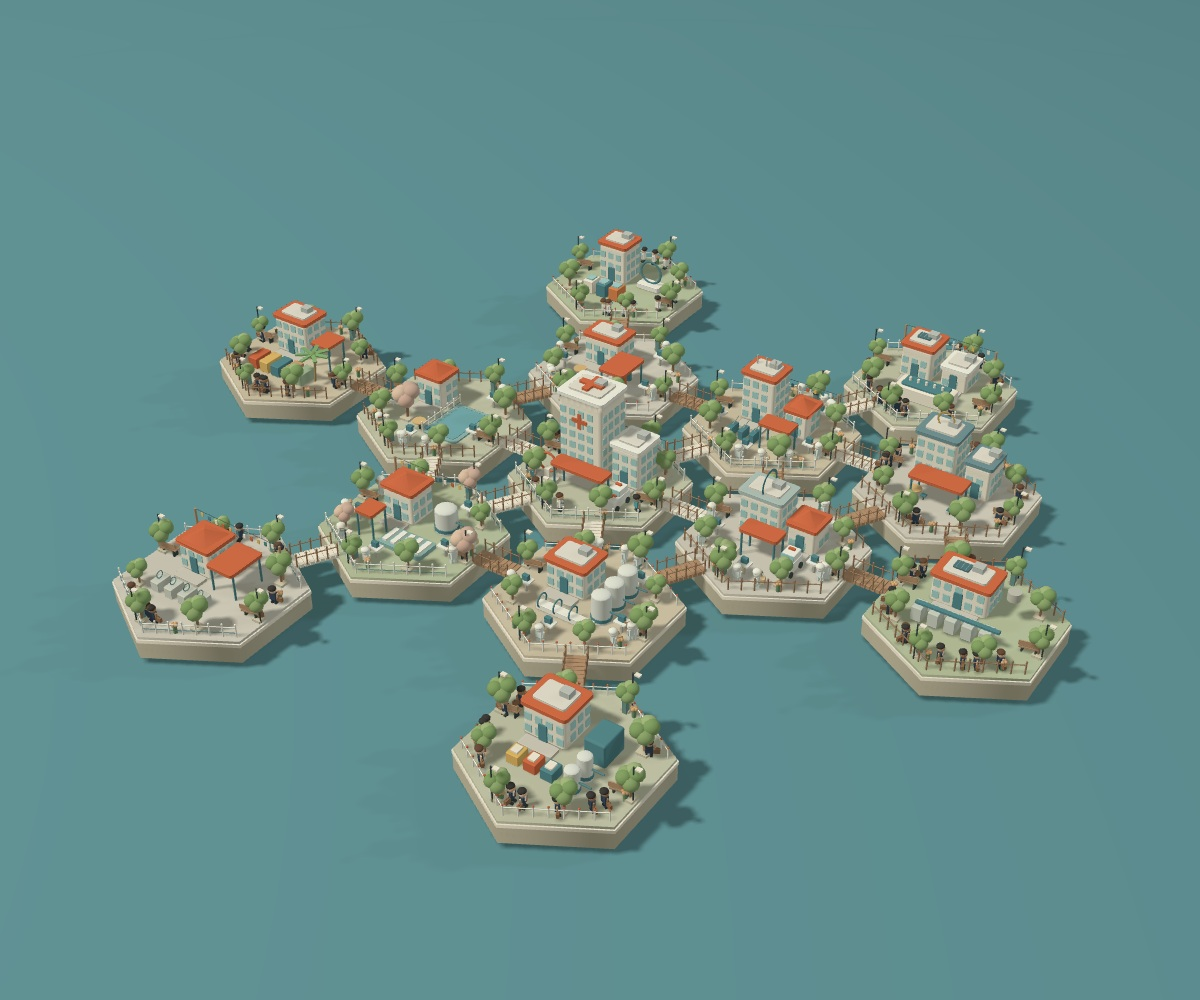
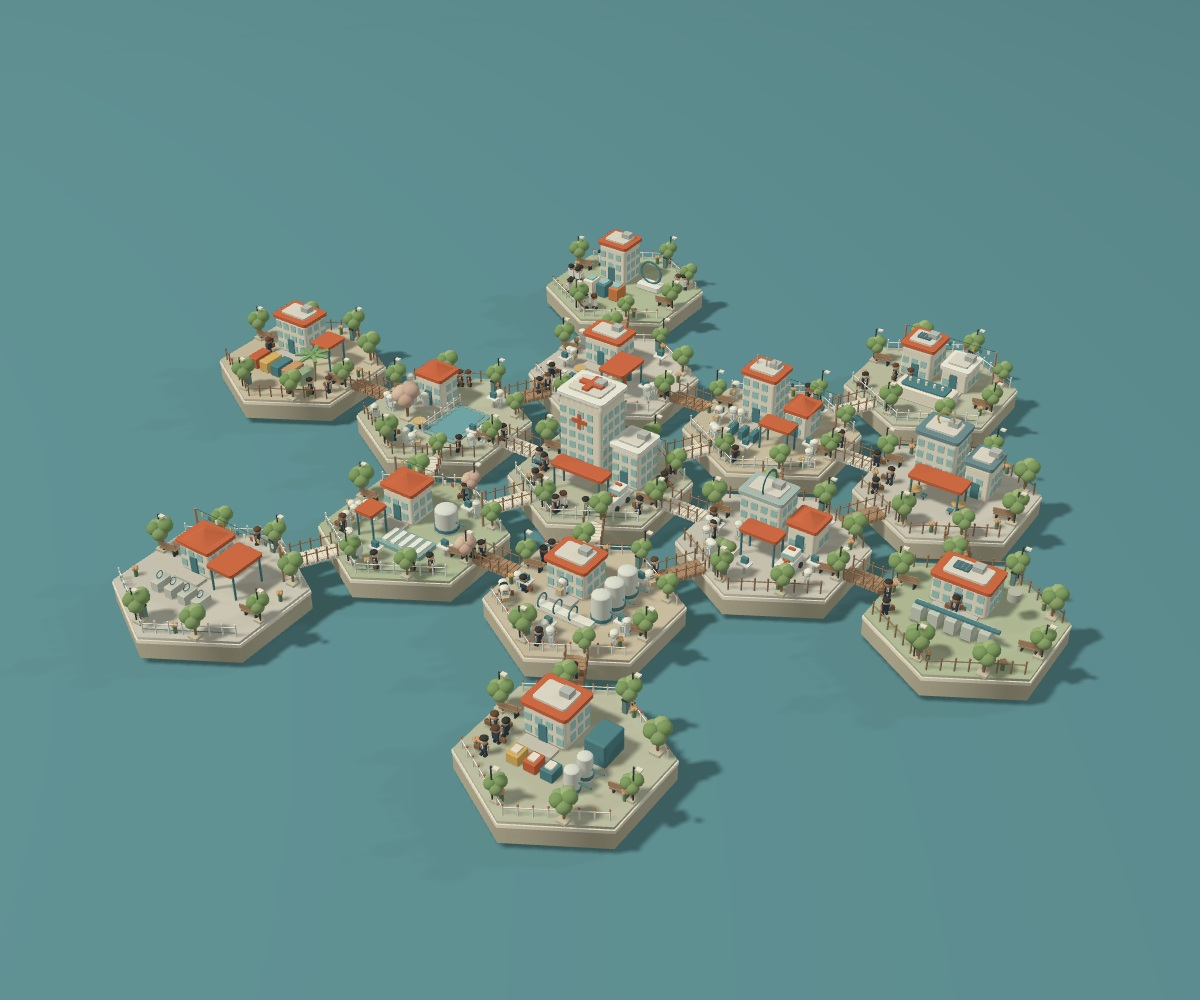
Route salespeople between buildings and local staff through their own building doors

diff --git a/island-model.js b/island-model.js
@@ -1,6 +1,6 @@
 // Procedural medical town. All architecture and characters are generated here.
 export function buildMedicalTown(T,RoundedBoxGeometry,definitions){
- const root=new T.Group(),parts=[],actors=[],lamps=[],tileCenters=[],windowColors=[];
+ const root=new T.Group(),parts=[],actors=[],lamps=[],tileCenters=[],doors=[],windowColors=[];
  const G={box:new T.BoxGeometry(1,1,1),round:new RoundedBoxGeometry(1,1,1,2,.09),cyl:new T.CylinderGeometry(.5,.5,1,12),cone:new T.ConeGeometry(.5,1,10),ball:new T.SphereGeometry(.5,12,8),leaf:new T.IcosahedronGeometry(.5,1),hex:new T.CylinderGeometry(.5,.5,1,6),roof:new T.ConeGeometry(.5,1,4),ring:new T.TorusGeometry(.5,.055,8,24)};
  const C={cream:0xf7f0df,white:0xf6f6ec,coral:0xd96e43,orange:0xe3894e,teal:0x538d95,glass:0xa9d5d2,brown:0xa58263,wood:0xbc9774,ink:0x3c4a48,green:0x89a870,lime:0xaac186,sand:0xe1cd9f,gray:0xc6c6b8};
  let owner=-1,seed=731;function rand(){seed=(seed*1664525+1013904223)>>>0;return seed/4294967296}
@@ -24,7 +24,7 @@ export function buildMedicalTown(T,RoundedBoxGeometry,definitions){
  function bin(x,z){box(x,TOP+.17,z,.11,.33,.12,0x739a91);box(x,TOP+.34,z,.13,.035,.14,C.ink)}
  function bunting(a,b){beam(a,b,.009,C.ink);const n=12;for(let j=1;j<n;j++){const f=j/n,x=a[0]+(b[0]-a[0])*f,y=a[1]+(b[1]-a[1])*f-Math.sin(f*Math.PI)*.10,z=a[2]+(b[2]-a[2])*f;box(x,y-.055,z,.07,.11,.018,[C.coral,0xe8c46f,C.teal,C.cream][j%4])}}
  function windows(x,z,w,h,d,y=TOP){for(let floor=0;floor<Math.floor(h/.3);floor++)for(let col=0;col<Math.max(1,Math.floor(w/.25));col++){const xx=x-w/2+.14+col*.25,yy=y+.22+floor*.3;box(xx,yy,z+d/2+.012,.16,.18,.025,C.glass);windowColors.push(parts.length-1)}for(let floor=0;floor<Math.floor(h/.3);floor++)for(let col=0;col<Math.max(1,Math.floor(d/.25));col++){box(x+w/2+.012,y+.22+floor*.3,z-d/2+.14+col*.25,.025,.18,.16,C.glass);windowColors.push(parts.length-1)}}
- function building(x,z,w,h,d,roof=C.coral,modern=false){box(x,TOP+h/2,z,w,h,d,C.cream);windows(x,z,w,h-.08,d);box(x,TOP+h+.035,z,w+.10,.10,d+.1,roof);if(modern){box(x,TOP+h+.10,z,w*.76,.08,d*.68,0xe8e5d9);box(x+.18,TOP+h+.2,z-.10,.25,.15,.22,0xc5cac5)}else{p('roof',x,TOP+h+.16,z,w*1.5,.27,d*1.5,roof,Math.PI/4)}box(x,TOP+.24,z+d/2+.03,.20,.48,.04,C.teal);box(x,TOP+.04,z+d/2+.19,w*.8,.08,.32,0xd8d5c8)}
+ function building(x,z,w,h,d,roof=C.coral,modern=false){if(owner>=0&&!doors[owner])doors[owner]={x,z:z+d/2+.035,tile:owner};box(x,TOP+h/2,z,w,h,d,C.cream);windows(x,z,w,h-.08,d);box(x,TOP+h+.035,z,w+.10,.10,d+.1,roof);if(modern){box(x,TOP+h+.10,z,w*.76,.08,d*.68,0xe8e5d9);box(x+.18,TOP+h+.2,z-.10,.25,.15,.22,0xc5cac5)}else{p('roof',x,TOP+h+.16,z,w*1.5,.27,d*1.5,roof,Math.PI/4)}box(x,TOP+.24,z+d/2+.03,.20,.48,.04,C.teal);box(x,TOP+.04,z+d/2+.19,w*.8,.08,.32,0xd8d5c8)}
  function cross(x,y,z,size=.28){box(x,y,z,size,.07,size*.27,C.coral);box(x,y,z,size*.27,.07,size,C.coral)}
  function canopy(x,z,w=1.3,d=.6){for(const dx of [-w*.43,w*.43])for(const dz of [-d*.4,d*.4])cyl(x+dx,TOP+.33,z+dz,.025,.66,C.teal);box(x,TOP+.68,z,w,.09,d,C.coral)}
  function tank(x,z,r=.25,h=.65){cyl(x,TOP+h/2,z,r,h,0xe4e8df);ball(x,TOP+h,z,r,0xe7ebe2,[1,.35,1]);cyl(x,TOP+.10,z,r*1.08,.08,C.teal);beam([x+r,TOP+.30,z],[x+r+.28,TOP+.30,z],.04,C.teal)}
@@ -57,7 +57,7 @@ export function buildMedicalTown(T,RoundedBoxGeometry,definitions){
  p('hex',x,.32,z,R*2,.42,R*2,0xc3bda6);p('hex',x,.56,z,R*2.015,.08,R*2.015,C.cream);p('hex',x,.63,z,R*1.98,.065,R*1.98,[0xcacdb4,0xd8d5c8,0xd6cbb2,0xbec9a8][i%4]);
  for(let ix=-8;ix<=8;ix++)for(let iz=-9;iz<=9;iz++){const px=ix*.22,pz=iz*.22;if(Math.abs(px)>Math.sqrt(3)*R*.46||Math.abs(pz)>R*.92-Math.abs(px)/Math.sqrt(3))continue;if(Math.hypot(px,pz)<1.25&&i%4!==0)continue;p('box',x+px,TOP-.014,z+pz,.207,.025,.207,(ix+iz+i)%3?0xe1ddd0:0xd8d6c9)}
  for(let edge=0;edge<6;edge++){if(edge===2||edge===5)continue;const a=point(x,z,R*.91,edge),b=point(x,z,R*.91,edge+1);fence(...a,...b,i%3);}
- for(let j=0;j<8;j++){const a=j/8*Math.PI*2+.18,rr=j%2?1.53:1.74;tree(x+Math.cos(a)*rr,z+Math.sin(a)*rr,.52+rand()*.18,i===3&&j%3===0)}
+ for(let j=0;j<8;j++){const a=j/8*Math.PI*2+.18,rr=1.78;if(j===3)continue;tree(x+Math.cos(a)*rr,z+Math.sin(a)*rr,.52+rand()*.18,i===3&&j%3===0)}
  for(let j=0;j<4;j++){const a=j/4*Math.PI*2+.2;lamp(x+Math.cos(a)*1.85,z+Math.sin(a)*1.85);if(j%2===0)bench(x+Math.cos(a)*1.55,z+Math.sin(a)*1.55,a);else bin(x+Math.cos(a)*1.66,z+Math.sin(a)*1.66)}
  for(let j=0;j<5;j++){const a=j*2.4+i;flower(x+Math.cos(a)*1.70,z+Math.sin(a)*1.70)}
  for(let j=0;j<10;j++){const a=j*.63+i*.27;actors.push({...person(x+Math.cos(a)*1.55,z+Math.sin(a)*1.55,-a,j+i,d.role),tile:i,phase:rand(),speed:.022+rand()*.012,variant:j+i})}
@@ -76,7 +76,7 @@ export function buildMedicalTown(T,RoundedBoxGeometry,definitions){
  case 9:building(X-.5,Z-.48,.9,.7,.8);canopy(X+.52,Z-.3,.75,1.0);for(let j=0;j<4;j++){box(X-.8+j*.4,TOP+.13,Z+.67,.24,.25,.4,0xd4d9cd);p('ring',X-.8+j*.4,TOP+.35,Z+.67,.17,.17,.17,C.teal,Math.PI/2)}break;
  case 10:building(X-.5,Z-.5,.85,.9,.9,C.coral,true);building(X+.55,Z-.5,.7,.58,.85,C.white,true);box(X+.15,TOP+.18,Z+.65,1.5,.36,.65,C.cream);box(X+.15,TOP+.38,Z+.65,1.2,.055,.48,C.teal);for(let j=0;j<5;j++)cyl(X-.3+j*.22,TOP+.45,Z+.65,.035,.10,C.cream);solar(X-.5,TOP+1.06,Z-.5);break;
  case 11:building(X-.45,Z-.45,.85,1.1,.8,C.coral,true);p('ring',X+.65,TOP+.50,Z-.35,.64,.64,.30,C.teal);box(X+.65,TOP+.10,Z-.35,.7,.15,.4,C.white);for(let j=0;j<3;j++){box(X-.65+j*.42,TOP+.20,Z+.65,.32,.38,.42,[C.cream,C.teal,C.orange][j]);box(X-.65+j*.42,TOP+.41,Z+.65,.22,.05,.25,C.glass)}break;
- case 12:building(X-.42,Z-.30,1.20,2.10,1.02,C.white,true);building(X+.72,Z-.38,.75,1.05,.85,C.white,true);cross(X-.42,TOP+2.28,Z-.30,.63);box(X-.42,TOP+1.52,Z+.225,.42,.10,.04,C.coral);box(X-.42,TOP+1.52,Z+.225,.10,.42,.04,C.coral);canopy(X,Z+.78,1.45,.48);ambulance(X+.92,Z+.72);statue(X-.94,Z+.78);break;
+ case 12:building(X-.42,Z-.30,1.20,2.10,1.02,C.white,true);building(X+.72,Z-.38,.75,1.05,.85,C.white,true);cross(X-.42,TOP+2.28,Z-.30,.63);box(X-.42,TOP+1.52,Z+.225,.42,.10,.04,C.coral);box(X-.42,TOP+1.52,Z+.225,.10,.42,.04,C.coral);canopy(X,Z+.78,1.45,.48);ambulance(X+.92,Z+.72);statue(X-1.08,Z-.98);break;
  case 13:building(X-.45,Z-.55,1.05,1.0,.8,C.coral,true);canopy(X+.65,Z-.35,.6,.7);for(let j=0;j<5;j++)box(X-.85+j*.38,TOP+.16,Z+.65,.30,.31,.57,[C.coral,0xe5bf6d,C.teal,0xd9a879,0xa8bc9c][j]);palm(X+.9,Z+.5,.8);break;
  case 14:building(X-.40,Z-.38,1.0,1.35,.88,0x73989e,true);building(X+.65,Z-.43,.62,.9,.80,0x73989e,true);canopy(X,Z+.58,1.35,.60);tables(X-.55,Z+.62);tables(X+.55,Z+.62);p('ring',X-.40,TOP+1.63,Z-.38,.40,.40,.14,0xc8a258);break;
  }
@@ -88,18 +88,41 @@ export function buildMedicalTown(T,RoundedBoxGeometry,definitions){
  const routes=[];owner=-1;tileCenters.forEach((a,i)=>tileCenters.forEach((b,j)=>{const len=Math.hypot(a.x-b.x,a.z-b.z);if(j<=i||len>4.8)return;const dx=(b.x-a.x)/len,dz=(b.z-a.z)/len,start=[a.x+dx*1.87,a.z+dz*1.87],end=[b.x-dx*1.87,b.z-dz*1.87],dist=Math.hypot(end[0]-start[0],end[1]-start[1]),ry=Math.atan2(dx,dz);routes.push({a:i,b:j});const n=Math.ceil(dist/.12);for(let k=0;k<=n;k++){const t=k/n;box(start[0]+(end[0]-start[0])*t,TOP-.015,start[1]+(end[1]-start[1])*t,.46,.10,.105,i%3===0?C.cream:C.wood,ry)}for(const side of [-1,1]){const offset=.23,nx=dz*offset*side,nz=-dx*offset*side;fence(start[0]+nx,start[1]+nz,end[0]+nx,end[1]+nz,1)}}));
  G.glass=G.round;const batches=new Map();for(const a of parts){const key=a.color===C.glass?'glass':a.kind;let b=batches.get(key);if(!b)batches.set(key,b=[]);b.push(a)}
  const staticMeshes=[];for(const [kind,items]of batches){const material=new T.MeshStandardMaterial({roughness:kind==='ball'?.66:.82,metalness:0,vertexColors:false});const mesh=new T.InstancedMesh(G[kind],material,items.length);mesh.castShadow=true;mesh.receiveShadow=true;mesh.userData.owners=items.map(p=>p.owner);const dummy=new T.Object3D();items.forEach((a,i)=>{dummy.position.set(...a.pos);dummy.rotation.set(...a.rot);dummy.scale.set(...a.scale);dummy.updateMatrix();mesh.setMatrixAt(i,dummy.matrix);mesh.setColorAt(i,new T.Color(a.color))});mesh.instanceMatrix.needsUpdate=true;mesh.instanceColor.needsUpdate=true;mesh.computeBoundingSphere();root.add(mesh);staticMeshes.push({mesh,items,kind})}
- actors.forEach((a,i)=>{a.id=i;a.taskName='移動中';a.status='walk';a.phase=(a.phase??0)%1});const moving=new T.Group(),movingBatches=new Map();const dummy=new T.Object3D(),basis=new T.Matrix4();actors.forEach((a,ai)=>a.parts.forEach((p,pi)=>{let list=movingBatches.get(p.kind);if(!list)movingBatches.set(p.kind,list=[]);list.push({actor:ai,part:pi})}));const dynamicMeshes=[];for(const[kind,list]of movingBatches){const mesh=new T.InstancedMesh(G[kind],new T.MeshStandardMaterial({roughness:.75}),list.length);mesh.castShadow=true;mesh.receiveShadow=true;mesh.frustumCulled=false;mesh.userData.personIds=list.map(r=>r.actor);mesh.userData.owners=list.map(r=>actors[r.actor].tile);list.forEach((r,i)=>mesh.setColorAt(i,new T.Color(actors[r.actor].parts[r.part].color)));moving.add(mesh);dynamicMeshes.push({mesh,list})}root.add(moving);
+ // Connect building doors, their forecourts, sidewalks and the existing bridges.
+ const nodes=[],adj=[],rings=[],doorIds=[],stations=[],pathCache=new Map();
+ function node(x,z,tile,building=-1){const id=nodes.length;nodes.push({x,z,tile,building});adj.push([]);return id}
+ function link(a,b){const length=Math.hypot(nodes[a].x-nodes[b].x,nodes[a].z-nodes[b].z);adj[a].push([b,length]);adj[b].push([a,length])}
+ function nearRing(tile,n){let best=rings[tile][0],dist=Infinity;for(const id of rings[tile]){const d=Math.hypot(nodes[id].x-nodes[n].x,nodes[id].z-nodes[n].z);if(d<dist){dist=d;best=id}}return best}
+ tileCenters.forEach((c,i)=>{rings[i]=Array.from({length:6},(_,k)=>{const p=point(c.x,c.z,1.73,k);return node(p[0],p[1],i)});rings[i].forEach((n,k)=>link(n,rings[i][(k+1)%6]));const d=doors[i],inside=node(d.x,d.z-.18,i,i),threshold=node(d.x,d.z+.04,i),outside=node(d.x,d.z+.23,i),lane=node(c.x-1.25,d.z+.23,i),forecourt=node(c.x-1.25,c.z+1.11,i);doorIds[i]=inside;link(inside,threshold);link(threshold,outside);link(outside,lane);link(lane,forecourt);link(forecourt,rings[i][2]);stations[i]=[];
+  const count=definitions[i].role==='factory'?5:3;for(let j=0;j<count;j++){const a=j/count*Math.PI*2,r=definitions[i].role==='factory'?1.46:1.48,n=node(c.x+Math.sin(a)*r,c.z+Math.cos(a)*r,i);stations[i].push(n);link(n,nearRing(i,n))}
+ });
+ routes.forEach(({a,b})=>{const A=tileCenters[a],B=tileCenters[b],len=Math.hypot(B.x-A.x,B.z-A.z),dx=(B.x-A.x)/len,dz=(B.z-A.z)/len,pa=node(A.x+dx*1.84,A.z+dz*1.84,a),pb=node(B.x-dx*1.84,B.z-dz*1.84,b);link(pa,pb);const face=(tile,p)=>rings[tile].slice().sort((x,y)=>Math.hypot(nodes[x].x-nodes[p].x,nodes[x].z-nodes[p].z)-Math.hypot(nodes[y].x-nodes[p].x,nodes[y].z-nodes[p].z)).slice(0,2);face(a,pa).forEach(n=>link(pa,n));face(b,pb).forEach(n=>link(pb,n))});
+ function path(from,to,onlyTile=-1){const key=from+':'+to+':'+onlyTile;if(pathCache.has(key))return pathCache.get(key);const dist=Array(nodes.length).fill(Infinity),prev=Array(nodes.length).fill(-1),done=new Set();dist[from]=0;for(let step=0;step<nodes.length;step++){let u=-1;for(let i=0;i<nodes.length;i++)if(!done.has(i)&&(u<0||dist[i]<dist[u]))u=i;if(u<0||!Number.isFinite(dist[u]))break;if(u===to)break;done.add(u);for(const[v,w]of adj[u])if((onlyTile<0||nodes[v].tile===onlyTile)&&dist[u]+w<dist[v]){dist[v]=dist[u]+w;prev[v]=u}}
+  if(!Number.isFinite(dist[to]))throw Error('Disconnected walking route');const ids=[];for(let u=to;u!==-1;u=prev[u]){ids.push(u);if(u===from)break}ids.reverse();const result={ids,length:dist[to]};pathCache.set(key,result);return result}
+ actors.forEach((a,i)=>{a.id=i;a.taskName='準備工作';a.status='work';a.phase=(a.phase??0)%1;a.walkSpeed=a.role==='sales'?.57:a.role==='patient'?.25:.43;const home=doorIds[a.tile];let goals;
+  if(a.role==='sales'){const pool=tileCenters.map(c=>c.i).filter(k=>k!==a.tile),start=i%pool.length;goals=[home,doorIds[pool[start]],doorIds[pool[(start+4)%pool.length]],doorIds[pool[(start+8)%pool.length]],home]}
+  else goals=[home,stations[a.tile][i%stations[a.tile].length],home];
+  a.legs=[];a.period=0;for(let j=1;j<goals.length;j++){const route=path(goals[j-1],goals[j],a.role==='sales'?-1:a.tile),travel=route.length/a.walkSpeed,stop=nodes[goals[j]].building>=0?(a.role==='sales'?7:4):7;a.legs.push({route,travel,stop,start:a.period,destination:goals[j]});a.period+=travel+stop}a.offset=a.phase*a.period;
+ });
+ const moving=new T.Group(),movingBatches=new Map();const dummy=new T.Object3D(),basis=new T.Matrix4();actors.forEach((a,ai)=>a.parts.forEach((p,pi)=>{let list=movingBatches.get(p.kind);if(!list)movingBatches.set(p.kind,list=[]);list.push({actor:ai,part:pi})}));const dynamicMeshes=[];for(const[kind,list]of movingBatches){const mesh=new T.InstancedMesh(G[kind],new T.MeshStandardMaterial({roughness:.75}),list.length);mesh.castShadow=true;mesh.receiveShadow=true;mesh.frustumCulled=false;mesh.userData.personIds=list.map(r=>r.actor);mesh.userData.owners=list.map(r=>actors[r.actor].tile);list.forEach((r,i)=>mesh.setColorAt(i,new T.Color(actors[r.actor].parts[r.part].color)));moving.add(mesh);dynamicMeshes.push({mesh,list})}root.add(moving);
  const taskNames={doctor:['巡診中','查看病歷','與護理師討論'],nurse:['前往照護站','整理照護用品','協助病人'],patient:['前往候診區','候診中','接受照護'],factory:['搬運物料','操作設備','檢查產品'],sales:['攜帶樣品拜訪','洽談供應需求','確認樣品與訂單'],lab:['移送測試樣品','操作檢測設備','記錄驗證結果']};
  function updatePeople(time){
-  actors.forEach(a=>{const t=tileCenters[a.tile],phase=(time*a.speed+a.phase)%1,walk=phase<.66,progress=walk?phase/.66:1,base=a.role==='factory'?(a.id%5)/5*Math.PI*2:a.phase*Math.PI*2,theta=base+progress*Math.PI*2;
-   a.x=t.x+Math.sin(theta)*1.62;a.z=t.z+Math.cos(theta)*1.62;a.ry=walk?theta+Math.PI/2:theta+Math.PI;a.status=walk?'walk':'work';a.taskName=taskNames[a.role]?.[walk?0:(a.id%2)+1]||'處理工作';
-   if(a.role==='patient'&&!walk)a.taskName=a.wheel?'等候陪同與照護':'候診中';
+  actors.forEach(a=>{const at=(time+a.offset)%a.period,leg=a.legs.find(l=>at<l.start+l.travel+l.stop)||a.legs[a.legs.length-1],elapsed=at-leg.start,walking=elapsed<leg.travel,goal=nodes[leg.destination];let indoors=-1;
+   if(walking){let distance=Math.min(leg.route.length,elapsed*a.walkSpeed);const ids=leg.route.ids;for(let j=1;j<ids.length;j++){const A=nodes[ids[j-1]],B=nodes[ids[j]],length=Math.hypot(B.x-A.x,B.z-A.z);if(distance<=length||j===ids.length-1){const f=length?distance/length:0;a.x=A.x+(B.x-A.x)*f;a.z=A.z+(B.z-A.z)*f;a.ry=Math.atan2(B.x-A.x,B.z-A.z);a.currentTile=f<.5?A.tile:B.tile;if(A.building>=0&&f<.5)indoors=A.building;if(B.building>=0&&f>.5)indoors=B.building;break}distance-=length}}
+   else{a.x=goal.x;a.z=goal.z;a.currentTile=goal.tile;indoors=goal.building;a.ry=goal.building>=0?0:Math.atan2(tileCenters[goal.tile].x-a.x,tileCenters[goal.tile].z-a.z)}
+   a.indoors=indoors>=0;a.indoorTile=indoors;a.destinationTile=goal.tile;a.status=walking?'walk':'work';const name=definitions[goal.tile].name;
+   if(a.role==='sales')a.taskName=walking?'前往'+name:'在'+name+'洽談與送樣';
+   else if(a.role==='factory')a.taskName=walking?(goal.building>=0?'返回工廠':'前往作業站'):(a.indoors?'室內組裝與作業':a.id%2?'操作設備':'檢查產品');
+   else if(a.role==='doctor')a.taskName=walking?(goal.building>=0?'進入醫院巡診':'前往照護區'):(a.indoors?'室內巡診與查看病歷':'討論照護與查看病歷');
+   else if(a.role==='nurse')a.taskName=walking?(goal.building>=0?'返回病房':'前往照護站'):(a.indoors?'病房照護':'整理照護用品');
+   else if(a.role==='patient')a.taskName=walking?(goal.building>=0?'進入診間':'前往候診區'):(a.indoors?'診間就醫':'候診中');
+   else a.taskName=walking?(goal.building>=0?'進入驗證室':'移送測試樣品'):(a.indoors?'室內檢測與記錄':'操作檢測設備');
   });
   for(const b of dynamicMeshes){b.list.forEach((r,i)=>{const a=actors[r.actor],p=a.parts[r.part],s=Math.sin(a.ry),c=Math.cos(a.ry),px=p.pos[0]*c+p.pos[2]*s,pz=-p.pos[0]*s+p.pos[2]*c,walking=a.status==='walk';
    dummy.position.set(a.x+px,a.y+p.pos[1]+(walking?Math.sin(time*7+a.phase)*.008:0),a.z+pz);
    let swing=walking?Math.sin(time*7+a.phase*6)*.40*(a.wheel?0:1)*(r.part===3||r.part===7?1:r.part===4||r.part===8?-1:0):0;
    if(!walking&&(r.part===7||r.part===8))swing=-(a.role==='patient'?.1:.62)+Math.sin(time*4+a.id)*.14;
-   dummy.rotation.set(p.rot[0]+swing,p.rot[1]+a.ry,p.rot[2]);const hidden=api.hiddenActor===a.id?.001:1;dummy.scale.set(p.scale[0]*hidden,p.scale[1]*hidden,p.scale[2]*hidden);dummy.updateMatrix();b.mesh.setMatrixAt(i,dummy.matrix)
+   dummy.rotation.set(p.rot[0]+swing,p.rot[1]+a.ry,p.rot[2]);const hidden=(api.hiddenActor===a.id||a.indoors)?.001:1;dummy.scale.set(p.scale[0]*hidden,p.scale[1]*hidden,p.scale[2]*hidden);dummy.updateMatrix();b.mesh.setMatrixAt(i,dummy.matrix)
   });b.mesh.instanceMatrix.needsUpdate=true}
  }
  const api={hiddenActor:-1};
@@ -107,8 +130,8 @@ export function buildMedicalTown(T,RoundedBoxGeometry,definitions){
  function setNight(n){for(const b of staticMeshes){let changed=false;b.items.forEach((a,i)=>{if(a.color===C.glass){const c=new T.Color(C.glass).lerp(new T.Color(0xffd99a),n);b.mesh.setColorAt(i,c);changed=true}});if(changed)b.mesh.instanceColor.needsUpdate=true}}
  function exportRender(){
   const out=staticMeshes.map(b=>({kind:b.kind,positions:Array.from(G[b.kind].attributes.position.array),normals:Array.from(G[b.kind].attributes.normal.array),indices:G[b.kind].index?Array.from(G[b.kind].index.array):null,items:b.items}));
-  for(const b of dynamicMeshes){const kind=b.list.length?actors[b.list[0].actor].parts[b.list[0].part].kind:null;if(!kind)continue;const items=b.list.map(r=>{const a=actors[r.actor],p=a.parts[r.part],c=Math.cos(a.ry),s=Math.sin(a.ry);return{kind,pos:[a.x+p.pos[0]*c+p.pos[2]*s,a.y+p.pos[1],a.z-p.pos[0]*s+p.pos[2]*c],scale:p.scale,color:p.color,rot:[p.rot[0],p.rot[1]+a.ry,p.rot[2]]}});out.push({kind,positions:Array.from(G[kind].attributes.position.array),normals:Array.from(G[kind].attributes.normal.array),indices:G[kind].index?Array.from(G[kind].index.array):null,items})}
+  for(const b of dynamicMeshes){const kind=b.list.length?actors[b.list[0].actor].parts[b.list[0].part].kind:null;if(!kind)continue;const items=b.list.map(r=>{const a=actors[r.actor];if(a.indoors)return null;const p=a.parts[r.part],c=Math.cos(a.ry),s=Math.sin(a.ry);return{kind,pos:[a.x+p.pos[0]*c+p.pos[2]*s,a.y+p.pos[1],a.z-p.pos[0]*s+p.pos[2]*c],scale:p.scale,color:p.color,rot:[p.rot[0],p.rot[1]+a.ry,p.rot[2]]}}).filter(Boolean);out.push({kind,positions:Array.from(G[kind].attributes.position.array),normals:Array.from(G[kind].attributes.normal.array),indices:G[kind].index?Array.from(G[kind].index.array):null,items})}
   return {centers:tileCenters,batches:out};
  }
- return Object.assign(api,{root,tileCenters,staticMeshes,parts,actors,geometries:G,updatePeople,setNight,lamps,routes,constants:{TOP,R},exportRender});
+ return Object.assign(api,{root,tileCenters,staticMeshes,parts,actors,geometries:G,updatePeople,setNight,lamps,routes,doors,navigation:{nodes,doorIds,stations},constants:{TOP,R},exportRender});
 }

diff --git a/island.html b/island.html
@@ -68,7 +68,7 @@ function safeURL(url){try{const u=new URL(url,'https://data.openfun.tw');return 
 function authHTML(){return `<details class="auth ${token?'saved':''}"><summary>${token?'連線設定':'歐噴 API Token · 逐筆查詢需授權'}</summary><input type="password" id="token" placeholder="${token?'已設定，重新貼上可更換':'貼上歐噴 API Token'}" autocomplete="off" spellcheck="false" aria-label="歐噴 API Token"><button id="setToken">儲存並關閉</button><button id="clearToken">清除</button><p id="tokenStatus">${token?'Token 已留在此分頁，內容已隱藏。':'公開索引可直接搜尋。Token 僅保留於此分頁，重新整理即清除。'}</p><a href="https://data.openfun.tw/user" target="_blank" rel="noopener noreferrer" style="font-size:12px">前往歐噴取得 Token ↗</a></details>`}
 function showList(){window.medtechScene?.home();window.previewMarker?.select(-1);$('#personCard')?.remove();selected=null;target.x=0;target.z=0;target.zoom=1;querySeq++;recordSeq++;$('#sceneTitle').textContent='沿著產品，走進醫材的風景。';$('#sideContent').innerHTML=`<h2>把需求，連起來。</h2><p class="side-lead">中央醫院與六座產品工廠，連結供應服務及品牌／OEM 客戶。<br>點選島名，探索對應資料。</p><div class="searchwrap"><input id="listSearch" type="search" placeholder="搜尋產品、技術、關鍵字…" aria-label="搜尋地塊" value="${esc(listQuery)}"></div><div class="filtertabs"><button data-filter="all">全部</button><button data-filter="product">產品工廠</button><button data-filter="supplier">供應服務</button><button data-filter="market">醫院／客戶</button></div><div class="tile-list" id="tileList"></div><div class="side-foot"><span class="live-dot"></span>資料線索來自歐噴資料庫<br>島嶼為探索介面；建築大小與動畫不代表市場規模、銷售量或真實交易。</div>`;renderList();$('#listSearch').addEventListener('input',e=>{listQuery=e.target.value;renderList()})}
 function renderList(){const list=tiles.filter(t=>(filter==='all'||t.type===filter)&&(t.name+t.en+t.tags.join('')).toLowerCase().includes(listQuery.toLowerCase()));$('#tileList').innerHTML=list.length?list.map(t=>`<button class="tile-item" data-tile="${t.i}"><span class="tile-icon" style="background:${t.color}">${t.icon}</span><span><span class="title">${t.name}</span><span class="subtitle">${t.en}</span></span><span class="arrow">↗</span></button>`).join(''):'<p class="empty">沒有相符的方向，請換個關鍵字。</p>';document.querySelectorAll('[data-filter]').forEach(b=>b.classList.toggle('active',b.dataset.filter===filter))}
-function choose(i){$('#personCard')?.remove();window.previewMarker?.select(i);selected=tiles[i];window.medtechScene?.focus(i);target.x=selected.x;target.z=selected.z;target.zoom=1.32;$('#sceneTitle').textContent=selected.name+' · '+selected.tags.join('／');$('#sideContent').innerHTML=`<button class="back" id="backList">← 回到探索清單</button><div class="detail-top"><div class="thumb-wrap"><img id="detailThumb" src="town-preview.jpg?v=4" alt="${selected.name}島嶼場景"><span>${selected.icon}</span></div><div><p class="detail-num">${String(i+1).padStart(2,'0')} / ${selected.en}</p><h2>${selected.name}</h2></div></div><p class="side-lead">${selected.description}</p><div class="tags">${selected.tags.map(t=>`<span>${t}</span>`).join('')}</div><h3 class="results-heading">歐噴資料庫查詢</h3><form class="query-form" id="queryForm"><input id="query" aria-label="歐噴關鍵字" value="${selected.query}" required><button class="primary">搜尋 ↗</button></form>${authHTML()}<div id="queryResults"><p class="status">正在搜尋公開索引…</p></div><div id="records"></div><p class="source-note">來源：<a href="https://data.openfun.tw/" target="_blank" rel="noopener noreferrer">歐噴資料庫</a>。索引條目不等同採購需求，請核對原始來源及資料期間。</p>`;$('#sidebar').scrollTop=0;document.body.classList.add('panel-open');runQuery(selected.query)}
+function choose(i){$('#personCard')?.remove();window.previewMarker?.select(i);selected=tiles[i];window.medtechScene?.focus(i);target.x=selected.x;target.z=selected.z;target.zoom=1.32;$('#sceneTitle').textContent=selected.name+' · '+selected.tags.join('／');$('#sideContent').innerHTML=`<button class="back" id="backList">← 回到探索清單</button><div class="detail-top"><div class="thumb-wrap"><img id="detailThumb" src="town-preview.jpg?v=6" alt="${selected.name}島嶼場景"><span>${selected.icon}</span></div><div><p class="detail-num">${String(i+1).padStart(2,'0')} / ${selected.en}</p><h2>${selected.name}</h2></div></div><p class="side-lead">${selected.description}</p><div class="tags">${selected.tags.map(t=>`<span>${t}</span>`).join('')}</div><h3 class="results-heading">歐噴資料庫查詢</h3><form class="query-form" id="queryForm"><input id="query" aria-label="歐噴關鍵字" value="${selected.query}" required><button class="primary">搜尋 ↗</button></form>${authHTML()}<div id="queryResults"><p class="status">正在搜尋公開索引…</p></div><div id="records"></div><p class="source-note">來源：<a href="https://data.openfun.tw/" target="_blank" rel="noopener noreferrer">歐噴資料庫</a>。索引條目不等同採購需求，請核對原始來源及資料期間。</p>`;$('#sidebar').scrollTop=0;document.body.classList.add('panel-open');runQuery(selected.query)}
 async function json(url,withToken=true){const controller=new AbortController(),timer=setTimeout(()=>controller.abort(),15000);try{const response=await fetch(url,{headers:withToken&&token?{Authorization:'Bearer '+token}:{},signal:controller.signal,cache:'no-store',referrerPolicy:'no-referrer'});if(!response.ok)throw Error(response.status===401||response.status===403?'Token 無效或沒有此資料集權限（'+response.status+'）':'歐噴回應 HTTP '+response.status);return await response.json()}finally{clearTimeout(timer)}}
 async function runQuery(q){const seq=++querySeq;recordSeq++;$('#records').innerHTML='';$('#queryResults').innerHTML='<p class="status">正在搜尋歐噴資料…</p>';try{const result=await json('https://data.openfun.tw/api/v1/search?'+new URLSearchParams({q,per_dataset:'2',max_datasets:'10'}));if(seq!==querySeq)return;const groups=(result.entities?.groups||[]).filter(g=>/健保|特材|醫療|醫院|稅籍|公司登記|機關代碼/.test(g.dataset_title||'')),items=groups.flatMap(g=>(g.entities||[]).slice(0,2).map(e=>({name:e.name,source:g.dataset_title,url:e.url||g.dataset_url,slug:g.dataset_slug||g.slug}))).slice(0,8),datasets=(result.datasets?.results||[]).filter(d=>(d.title||'').includes(q)).slice(0,4);let html=`<p class="status">歐噴全域索引命中 ${Number(result.entities?.total||0).toLocaleString()} 筆條目；下列為醫療及業者相關摘要。</p>`;const card=r=>`<article class="result"><strong>${esc(r.name)}</strong><p>${esc(r.source||'')}</p><a href="${esc(safeURL(r.url))}" target="_blank" rel="noopener noreferrer">歐噴來源 ↗</a>${r.slug?`<button data-records="${esc(encodeURIComponent(r.slug))}">逐筆資料</button>`:''}</article>`;html+=items.map(card).join('');html+=datasets.map(d=>card({name:d.title,source:(d.description||'').slice(0,100),url:d.url||'https://data.openfun.tw/datasets/'+encodeURIComponent(d.slug),slug:d.slug})).join('');if(!items.length&&!datasets.length)html+='<p class="status">沒有相符的醫療條目，可換用較短關鍵字或機構名稱。</p>';$('#queryResults').innerHTML=html}catch(e){if(seq===querySeq)$('#queryResults').innerHTML=`<p class="status">${esc(e.name==='AbortError'?'查詢逾時，請重試。':e.message)}</p>`}}
 async function records(slug){if(!token){const d=$('.auth');d.open=true;$('#token').focus();toast('請先輸入歐噴 Token 並啟用');return}const seq=++recordSeq;$('#records').innerHTML='<p class="status">正在讀取此資料集前 10 筆紀錄…</p>';try{const r=await json('https://data.openfun.tw/api/v1/datasets/'+encodeURIComponent(slug)+'/records?per_page=10&page=1');if(seq!==recordSeq)return;$('#records').innerHTML=`<h3 class="results-heading">逐筆資料</h3><p class="status">共 ${Number(r.total||0).toLocaleString()} 筆紀錄，以下為前 10 筆。</p>`+(r.records||[]).map(row=>`<article class="record-row"><dl>${Object.entries(row).map(([k,v])=>`<dt>${esc(k)}</dt><dd>${esc(v===null?'—':typeof v==='object'?JSON.stringify(v):v)}</dd>`).join('')}</dl></article>`).join('');if(!(r.records||[]).length)$('#records').innerHTML+='<p class="status">此資料集未回傳紀錄。</p>'}catch(e){if(seq===recordSeq)$('#records').innerHTML=`<p class="status">${esc(e.message)}</p>`}}
@@ -86,13 +86,13 @@ function previewPeople(){return tiles.flatMap((t,i)=>Array.from({length:13},(_,j
 function openPeople(){const people=window.medtechScene?.listPeople()||previewPeople();const kinds=[['醫師','巡診、查看病歷與討論照護。'],['護理師','協助病人、整理照護用品。'],['病人','候診、移動與接受照護。'],['無塵室作業員','搬運物料、操作設備與檢查產品。'],['業務員','攜帶樣品拜訪、洽談供應需求。'],['研發／驗證人員','移送樣品、檢測與記錄驗證結果。']];$('#sideContent').innerHTML=`<button class="back" id="backList">← 回到島嶼清單</button><h2>選擇角色視角。</h2><p class="side-lead">選擇角色種類，切換跟隨、人物視角或鳥瞰。</p><div class="people-list" id="peopleList">${kinds.map(([name,description])=>{const person=people.find(p=>p.role===name);return `<button class="person-item" data-person="${person?.id??0}" ${window.medtechScene&&person?'':'disabled'}><strong>${esc(name)}</strong><small>${esc(description)}</small></button>`}).join('')}</div>`;document.body.classList.add('panel-open')}
 
 window.showPersonInfo=p=>{let card=$('#personCard');if(!card){card=document.createElement('aside');card.id='personCard';card.className='person-card';document.body.appendChild(card)}card.dataset.person=p.id;card.innerHTML=`<button id="closePerson" class="close-person" aria-label="離開人物視角">×</button><small>${esc(p.island)}</small><strong>${esc(p.role||p.name.replace(/\s+\d+$/,''))}</strong><p id="personTask">${esc(p.task)}</p><div class="person-views">${[['follow','跟隨'],['first','人物視角'],['top','鳥瞰']].map(([v,n])=>`<button data-person="${p.id}" data-person-view="${v}" class="${p.mode===v?'active':''}">${n}</button>`).join('')}</div>`;if(innerWidth<=700)document.body.classList.remove('panel-open')};
-window.updatePersonInfo=p=>{if($('#personCard')?.dataset.person===String(p.id))$('#personTask').textContent=p.task};
+window.updatePersonInfo=p=>{if($('#personCard')?.dataset.person===String(p.id)){$('#personTask').textContent=p.task;$('#personCard > small').textContent=p.island}};
 document.addEventListener('click',e=>{const b=e.target.closest('[data-person]');if(b)window.medtechScene?.selectPerson(+b.dataset.person,b.dataset.personView);if(e.target.id==='closePerson'){$('#personCard')?.remove();window.medtechScene?.clearPerson()}});
-window.showIslandPreview=note=>{window.previewLabelCleanup?.();const stage=$('#island');stage.innerHTML='<img class="scene-fallback" src="town-preview.jpg?v=4" alt="醫院、工廠與供應商群島預覽"><p class="webgl-note"></p>';stage.querySelector('.webgl-note').textContent=note;const marker=window.MedtechLabels.create(stage,tiles);window.previewMarker=marker;marker.root.style.display=showLabels?'':'none';const image=stage.querySelector('img');const update=()=>{const r=stage.getBoundingClientRect(),iw=1200,ih=1000,k=Math.max(r.width/iw,r.height/ih),ox=(r.width-iw*k)/2,oy=(r.height-ih*k)/2;marker.update(window.MEDTECH_PREVIEW_POINTS.map(([u,v])=>({x:ox+u*iw*k,y:oy+v*ih*k})),r.width,r.height)};image.onload=update;const observer=new ResizeObserver(update);observer.observe(stage);update();window.previewLabelCleanup=()=>{observer.disconnect();marker.destroy();window.previewMarker=null}};
+window.showIslandPreview=note=>{window.previewLabelCleanup?.();const stage=$('#island');stage.innerHTML='<img class="scene-fallback" src="town-preview.jpg?v=6" alt="醫院、工廠與供應商群島預覽"><p class="webgl-note"></p>';stage.querySelector('.webgl-note').textContent=note;const marker=window.MedtechLabels.create(stage,tiles);window.previewMarker=marker;marker.root.style.display=showLabels?'':'none';const image=stage.querySelector('img');const update=()=>{const r=stage.getBoundingClientRect(),iw=1200,ih=1000,k=Math.max(r.width/iw,r.height/ih),ox=(r.width-iw*k)/2,oy=(r.height-ih*k)/2;marker.update(window.MEDTECH_PREVIEW_POINTS.map(([u,v])=>({x:ox+u*iw*k,y:oy+v*ih*k})),r.width,r.height)};image.onload=update;const observer=new ResizeObserver(update);observer.observe(stage);update();window.previewLabelCleanup=()=>{observer.disconnect();marker.destroy();window.previewMarker=null}};
 window.MEDTECH_PREVIEW_POINTS=[[0.5,0.467697],[0.645086,0.534259],[0.486712,0.591227],[0.344123,0.518735],[0.369354,0.407759],[0.511027,0.365192],[0.643699,0.420646],[0.807147,0.608609],[0.470386,0.742993],[0.174451,0.574289],[0.251094,0.353504],[0.520323,0.278766],[0.776593,0.377134],[0.790432,0.481978]];
 showList();
 setTimeout(()=>{if(!window.medtechScene&&!$('#island').querySelector('.scene-fallback'))window.showIslandPreview('3D 尚未載入，先顯示場景預覽。島名仍可點選查詢。')},15000);
 })();
 </script>
-<script type="module" src="island-scene.js?v=5"></script>
+<script type="module" src="island-scene.js?v=6"></script>
 </body></html>

diff --git a/island-scene.js b/island-scene.js
@@ -1,7 +1,7 @@
 import * as T from 'three';
 import {OrbitControls} from 'three/addons/controls/OrbitControls.js';
 import {RoundedBoxGeometry} from './rounded-box.js';
-import {buildMedicalTown} from './island-model.js?v=4';
+import {buildMedicalTown} from './island-model.js?v=6';
 
 const stage=document.querySelector('#island'),area=document.querySelector('#scene');
 let renderer;
@@ -36,7 +36,7 @@ function start(){
  function resize(){const r=area.getBoundingClientRect();renderer.setSize(r.width,r.height);camera.aspect=r.width/r.height;camera.updateProjectionMatrix()}new ResizeObserver(resize).observe(area);resize();camera.position.set(20,26,29);controls.target.set(0,.6,0);home();
  function labelPositions(){const r=area.getBoundingClientRect();marker.update(city.tileCenters.map(c=>{const v=new T.Vector3(c.x,.93,c.z).project(camera);return{x:(v.x*.5+.5)*r.width,y:(-v.y*.5+.5)*r.height,visible:v.z<1}}),r.width,r.height)}
  const roleNames={doctor:'醫師',nurse:'護理師',patient:'病人',factory:'無塵室作業員',sales:'業務員',lab:'研發／驗證人員'};
- function profile(id){const a=city.actors[id];return{id,name:(roleNames[a.role]||'工作人員')+' '+String(id+1).padStart(3,'0'),role:roleNames[a.role],island:window.MEDTECH_TILES[a.tile].name,task:a.taskName,mode:a.viewMode||'follow'}}
+ function profile(id){const a=city.actors[id];return{id,name:(roleNames[a.role]||'工作人員')+' '+String(id+1).padStart(3,'0'),role:roleNames[a.role],island:window.MEDTECH_TILES[a.currentTile??a.tile].name,task:a.taskName,mode:a.viewMode||'follow'}}
  function selectPerson(id,mode){const a=city.actors[id];if(!a)return;thumbnail=0;personId=id;personMode=mode||a.viewMode||'follow';a.viewMode=personMode;follow=true;transition=null;controls.enabled=false;city.hiddenActor=personMode==='first'?id:-1;city.updatePeople(time);marker.select(a.tile);window.showPersonInfo?.(profile(id));}
  window.medtechScene.listPeople=()=>city.actors.map((_,i)=>profile(i));window.medtechScene.selectPerson=selectPerson;window.medtechScene.clearPerson=()=>{follow=false;personId=-1;controls.enabled=true;city.hiddenActor=-1};
 
@@ -44,6 +44,6 @@ function start(){
  renderer.domElement.addEventListener('pointerdown',e=>{down={x:e.clientX,y:e.clientY};transition=null;follow=false;controls.enabled=true;city.hiddenActor=-1});renderer.domElement.addEventListener('pointerup',e=>{if(down&&Math.hypot(e.clientX-down.x,e.clientY-down.y)<7){const hit=cast(e);if(hit?.person!==undefined)selectPerson(hit.person);else if(hit)window.selectMedtechTile(hit.tile)}down=null});renderer.domElement.addEventListener('pointermove',e=>{if(down)return;const hit=cast(e),i=hit?.tile??-1;if(i!==hover){hover=i;renderer.domElement.style.cursor=hit?'pointer':'grab';badges.forEach((b,k)=>b.classList.toggle('hovered',k===i))}});
  renderer.domElement.addEventListener('keydown',e=>{if(e.key==='ArrowLeft'||e.key==='ArrowRight'){e.preventDefault();const offset=camera.position.clone().sub(controls.target);offset.applyAxisAngle(new T.Vector3(0,1,0),e.key==='ArrowLeft'?-.12:.12);camera.position.copy(controls.target).add(offset)}if(e.key==='Home')home()});
  function lighting(dt){timeValue+=(timeTarget-timeValue)*(1-Math.exp(-dt*2.1));night=T.MathUtils.clamp(timeValue-2,0,1);const dusk=1-Math.min(1,Math.abs(timeValue-2)),day=new T.Color(0x62aab5),evening=new T.Color(0x84aaa8),dark=new T.Color(0x233e50);const seaColor=day.clone().lerp(evening,dusk*.5).lerp(dark,night);scene.background.copy(seaColor);scene.fog.color.copy(seaColor);sea.material.color.copy(seaColor);sun.intensity=3.25*(1-night)+.38*night;ambient.intensity=2.15*(1-night)+.65*night;fill.intensity=.36*(1-night)+.22*night;sun.color.setHex(0xfff3d9).lerp(new T.Color(0xffb178),dusk*.3);document.body.classList.toggle('night',night>.5);if(Math.abs(lastNight-night)>.025){city.setNight(night);lastNight=night;for(const b of city.staticMeshes)if(b.kind==='glass'){b.mesh.material.emissive.setHex(0xffd99d);b.mesh.material.emissiveIntensity=night*.8}}}
- function frame(){requestAnimationFrame(frame);const dt=Math.min(clock.getDelta(),.12);if(!options.paused)time+=dt;lighting(dt);if(transition){const t=T.MathUtils.clamp((performance.now()-transition.at)/1050,0,1),k=t*t*(3-2*t);camera.position.lerpVectors(transition.from,transition.to,k);controls.target.lerpVectors(transition.targetFrom,transition.targetTo,k);if(t===1)transition=null}if(options.traffic){city.updatePeople(time);boats.forEach((b,i)=>{const a=time*.035+i*2.094;b.position.set(Math.sin(a)*17.5,-.02,Math.cos(a)*14.5);b.rotation.y=Math.atan2(Math.cos(a)*17.5,-Math.sin(a)*14.5)});birds.forEach((b,i)=>{const a=time*.1+i*1.7;b.g.position.set(Math.sin(a)*14,3.1+Math.sin(a*2+i)*.3,Math.cos(a*.86)*12);b.g.rotation.y=-a;b.left.rotation.z=Math.sin(time*5+i)*.35;b.right.rotation.z=-Math.sin(time*5+i)*.35});ripples.forEach((m,i)=>m.material.opacity=.10+Math.sin(time*.5+i)*.025)}if(follow&&personId>=0){const a=city.actors[personId],dir=new T.Vector3(Math.sin(a.ry),0,Math.cos(a.ry)),center=new T.Vector3(a.x,a.y+.29,a.z),eye=center.clone();let look=center.clone();if(personMode==='first'){eye.y=a.y+.41;look=eye.clone().addScaledVector(dir,1.5);look.y-=.05}else if(personMode==='top'){eye.add(new T.Vector3(0,5,.03))}else{eye.addScaledVector(dir,-2.1);eye.y+=1.6}camera.position.lerp(eye,.14);controls.target.lerp(look,.24);camera.lookAt(controls.target);if(time-profileTick>.6){window.updatePersonInfo?.(profile(personId));profileTick=time}}else controls.update();labelPositions();renderer.render(scene,camera);if(thumbnail&&performance.now()>thumbnail){thumbnail=0;const img=document.querySelector('#detailThumb');if(img){try{img.src=renderer.domElement.toDataURL('image/webp',.7)}catch{}}}}
+ function frame(){requestAnimationFrame(frame);const dt=Math.min(clock.getDelta(),.12);if(!options.paused)time+=dt;lighting(dt);if(transition){const t=T.MathUtils.clamp((performance.now()-transition.at)/1050,0,1),k=t*t*(3-2*t);camera.position.lerpVectors(transition.from,transition.to,k);controls.target.lerpVectors(transition.targetFrom,transition.targetTo,k);if(t===1)transition=null}if(options.traffic){city.updatePeople(time);boats.forEach((b,i)=>{const a=time*.035+i*2.094;b.position.set(Math.sin(a)*17.5,-.02,Math.cos(a)*14.5);b.rotation.y=Math.atan2(Math.cos(a)*17.5,-Math.sin(a)*14.5)});birds.forEach((b,i)=>{const a=time*.1+i*1.7;b.g.position.set(Math.sin(a)*14,3.1+Math.sin(a*2+i)*.3,Math.cos(a*.86)*12);b.g.rotation.y=-a;b.left.rotation.z=Math.sin(time*5+i)*.35;b.right.rotation.z=-Math.sin(time*5+i)*.35});ripples.forEach((m,i)=>m.material.opacity=.10+Math.sin(time*.5+i)*.025)}if(follow&&personId>=0){const a=city.actors[personId],door=a.indoors?city.doors[a.indoorTile]:null,dir=door?new T.Vector3(0,0,1):new T.Vector3(Math.sin(a.ry),0,Math.cos(a.ry)),center=door?new T.Vector3(door.x,a.y+.29,door.z+.12):new T.Vector3(a.x,a.y+.29,a.z),eye=center.clone();let look=center.clone();if(personMode==='first'){eye.y=a.y+.41;look=eye.clone().addScaledVector(dir,1.5);look.y-=.05}else if(personMode==='top'){eye.add(new T.Vector3(0,5,.03))}else{eye.addScaledVector(dir,door?2.3:-2.1);eye.y+=1.6}camera.position.lerp(eye,.14);controls.target.lerp(look,.24);camera.lookAt(controls.target);if(time-profileTick>.6){window.updatePersonInfo?.(profile(personId));profileTick=time}}else controls.update();labelPositions();renderer.render(scene,camera);if(thumbnail&&performance.now()>thumbnail){thumbnail=0;const img=document.querySelector('#detailThumb');if(img){try{img.src=renderer.domElement.toDataURL('image/webp',.7)}catch{}}}}
  frame();
 }
